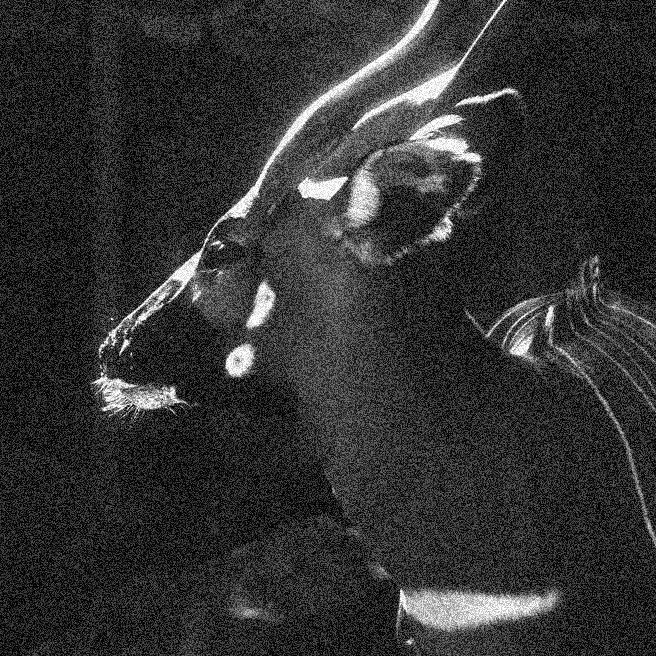
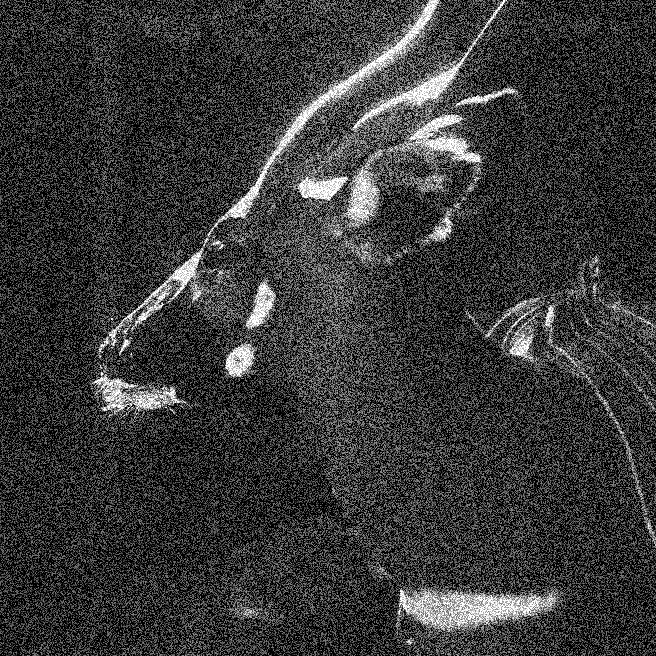
implementata task 4

Changed region(s): [[0.0, 0.0, 1.0, 1.0]]

diff --git a/challenge1/challenge1.cpp b/challenge1/challenge1.cpp
@@ -57,7 +57,6 @@ int main(int argc, char** argv)
     for (int i = 0; i < height; ++i) {
         for (int j = 0; j < width; ++j) {
             int idx = i * width + j;
-            // originalImg(i, j) = static_cast<double>(image_data[idx]) / 255.0;
             originalImg(i, j) = static_cast<double>(image_data[idx]); // non dovrebbero essere tra 0 e 255, dividendo per 255 rimarrebbero tra 0 e 1
         }
     }
@@ -87,6 +86,13 @@ int main(int argc, char** argv)
     std::cout << "v.size() = " << v.size() << "\n";
     std::cout << "w.size() = " << w.size() << "\n";
     std::cout << "Norma euclidea di v: ||v||_2 = " << v.norm() << "\n";
+
+
+    // Task 4
+    Eigen::SparseMatrix<double> A1 = buildConvMatrix(height, width, H_av1);
+
+    std::cout << "Dimensioni di A1: " << A1.rows() << " x " << A1.cols() << "\n";
+    std::cout << "Numero di entry non nulle in A1: " << A1.nonZeros() << "\n";
 
 
     return 0;
